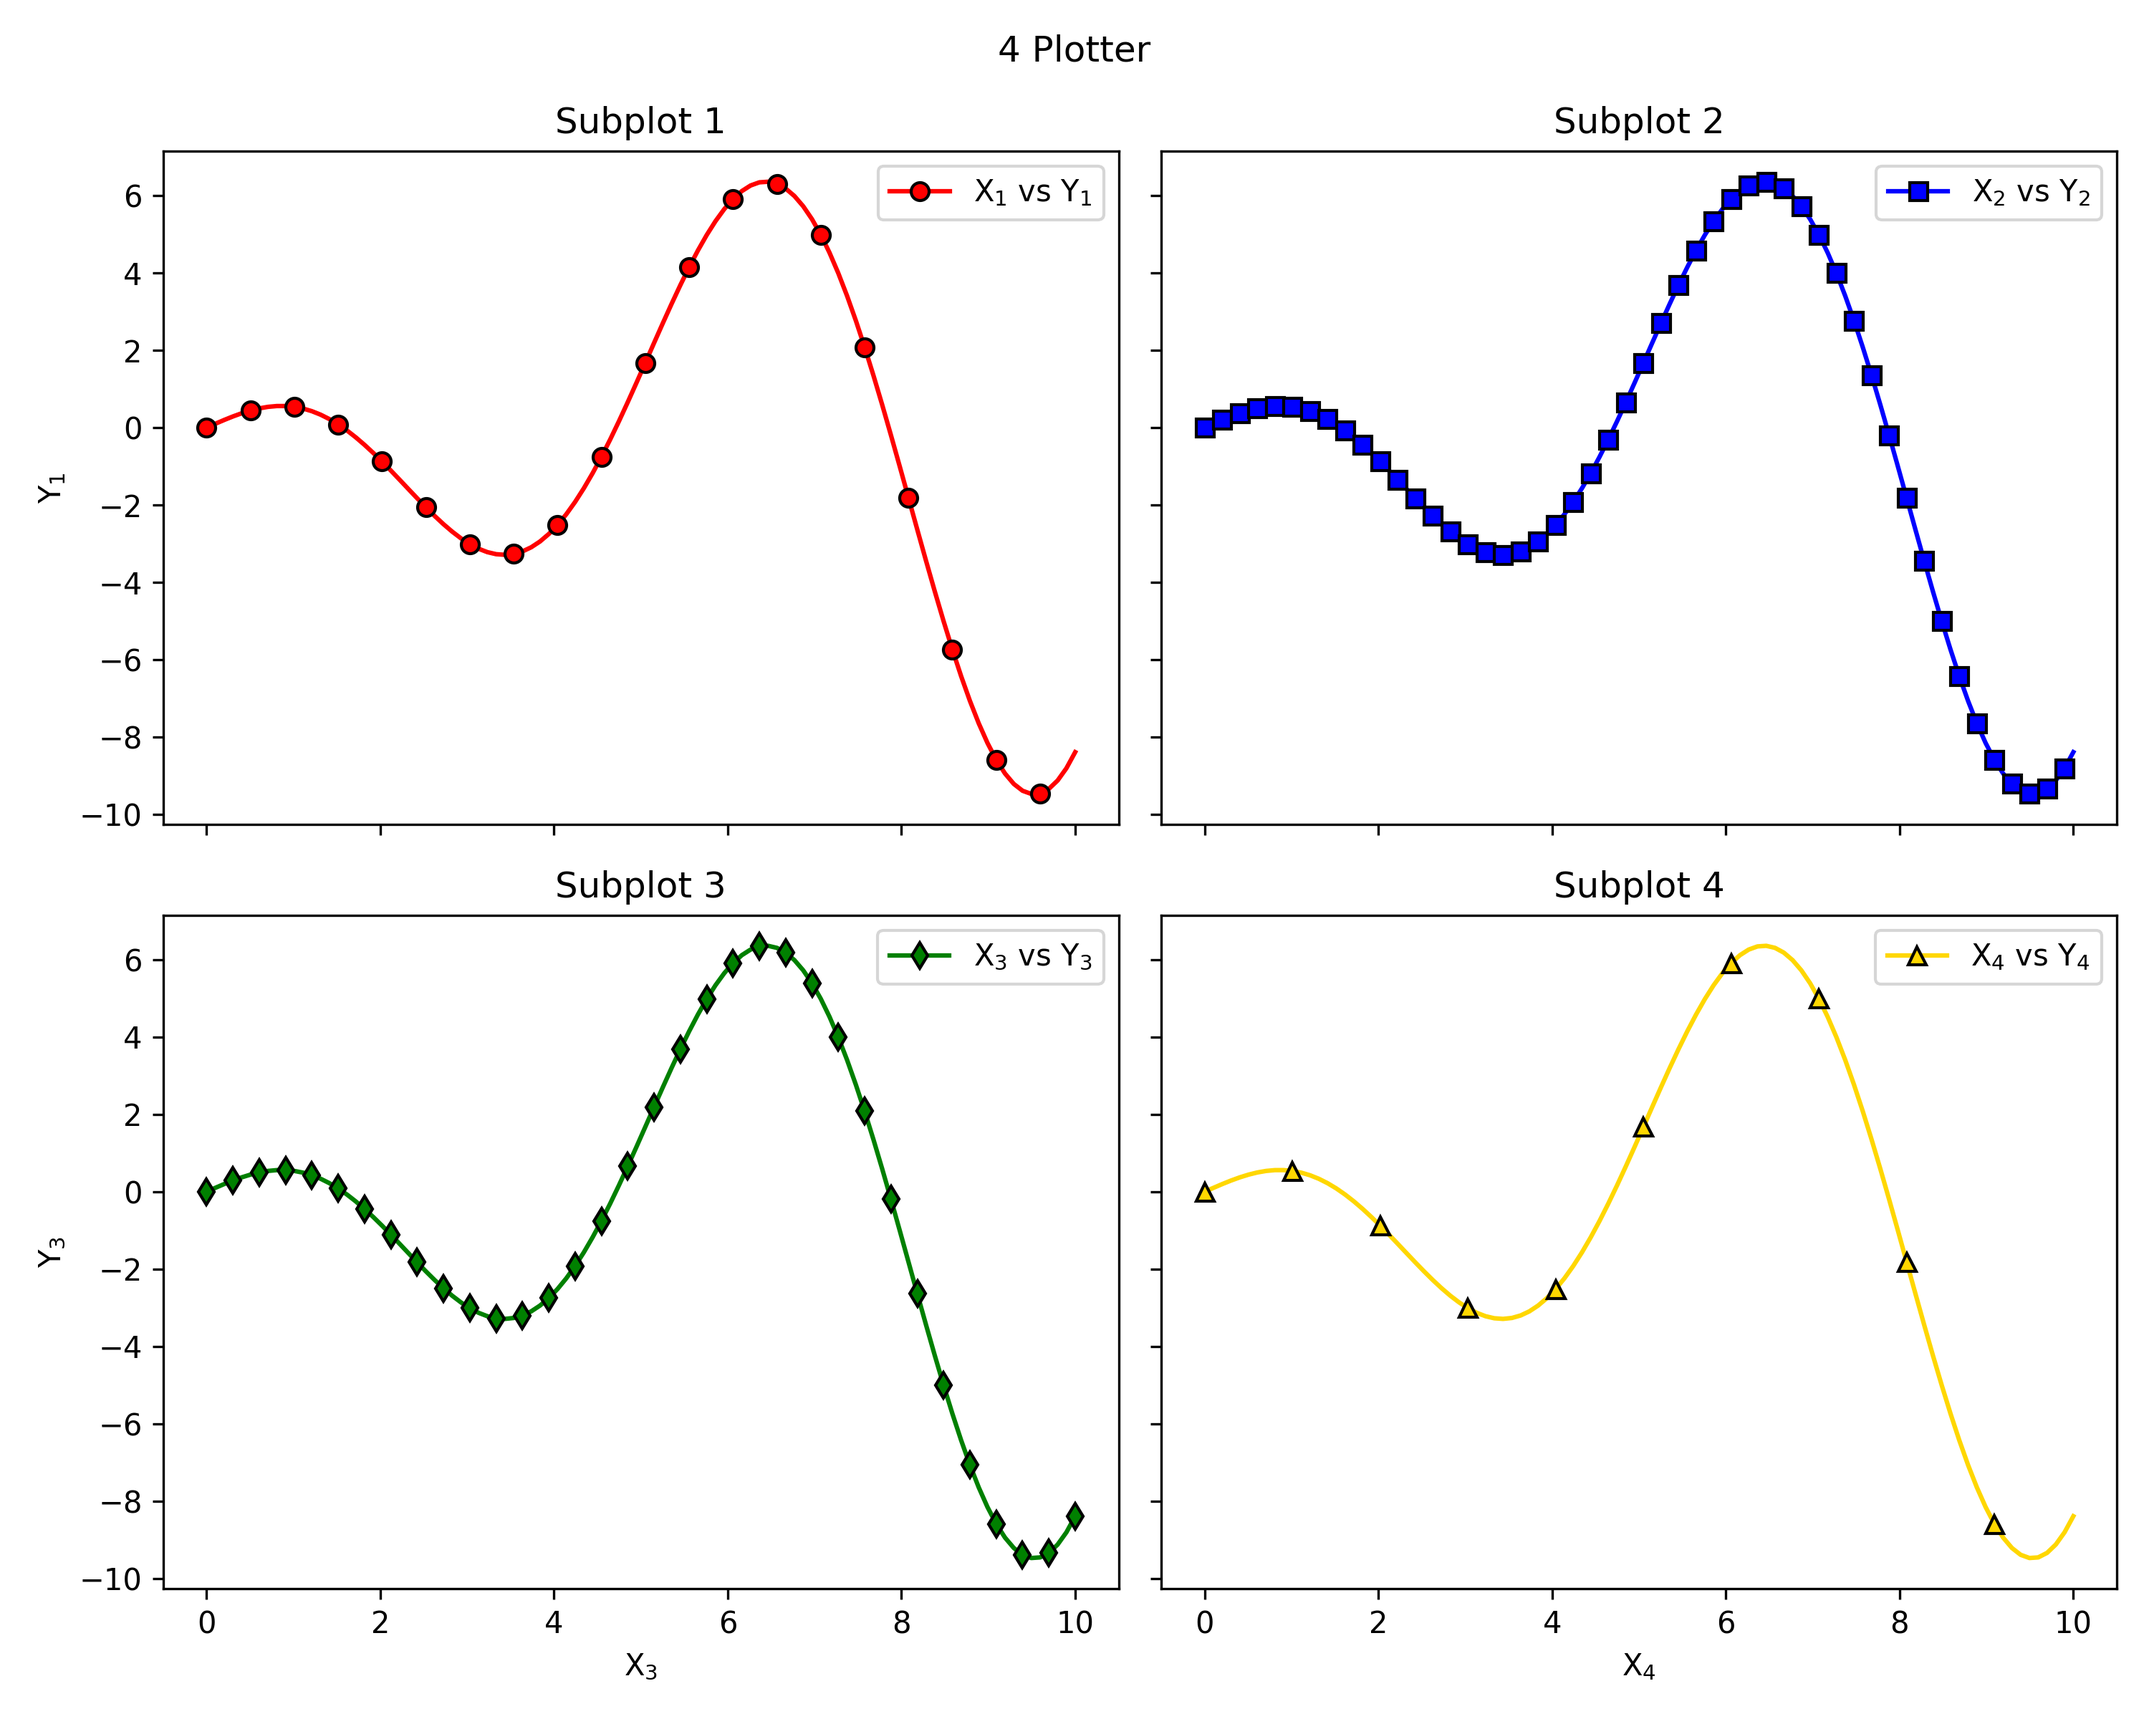
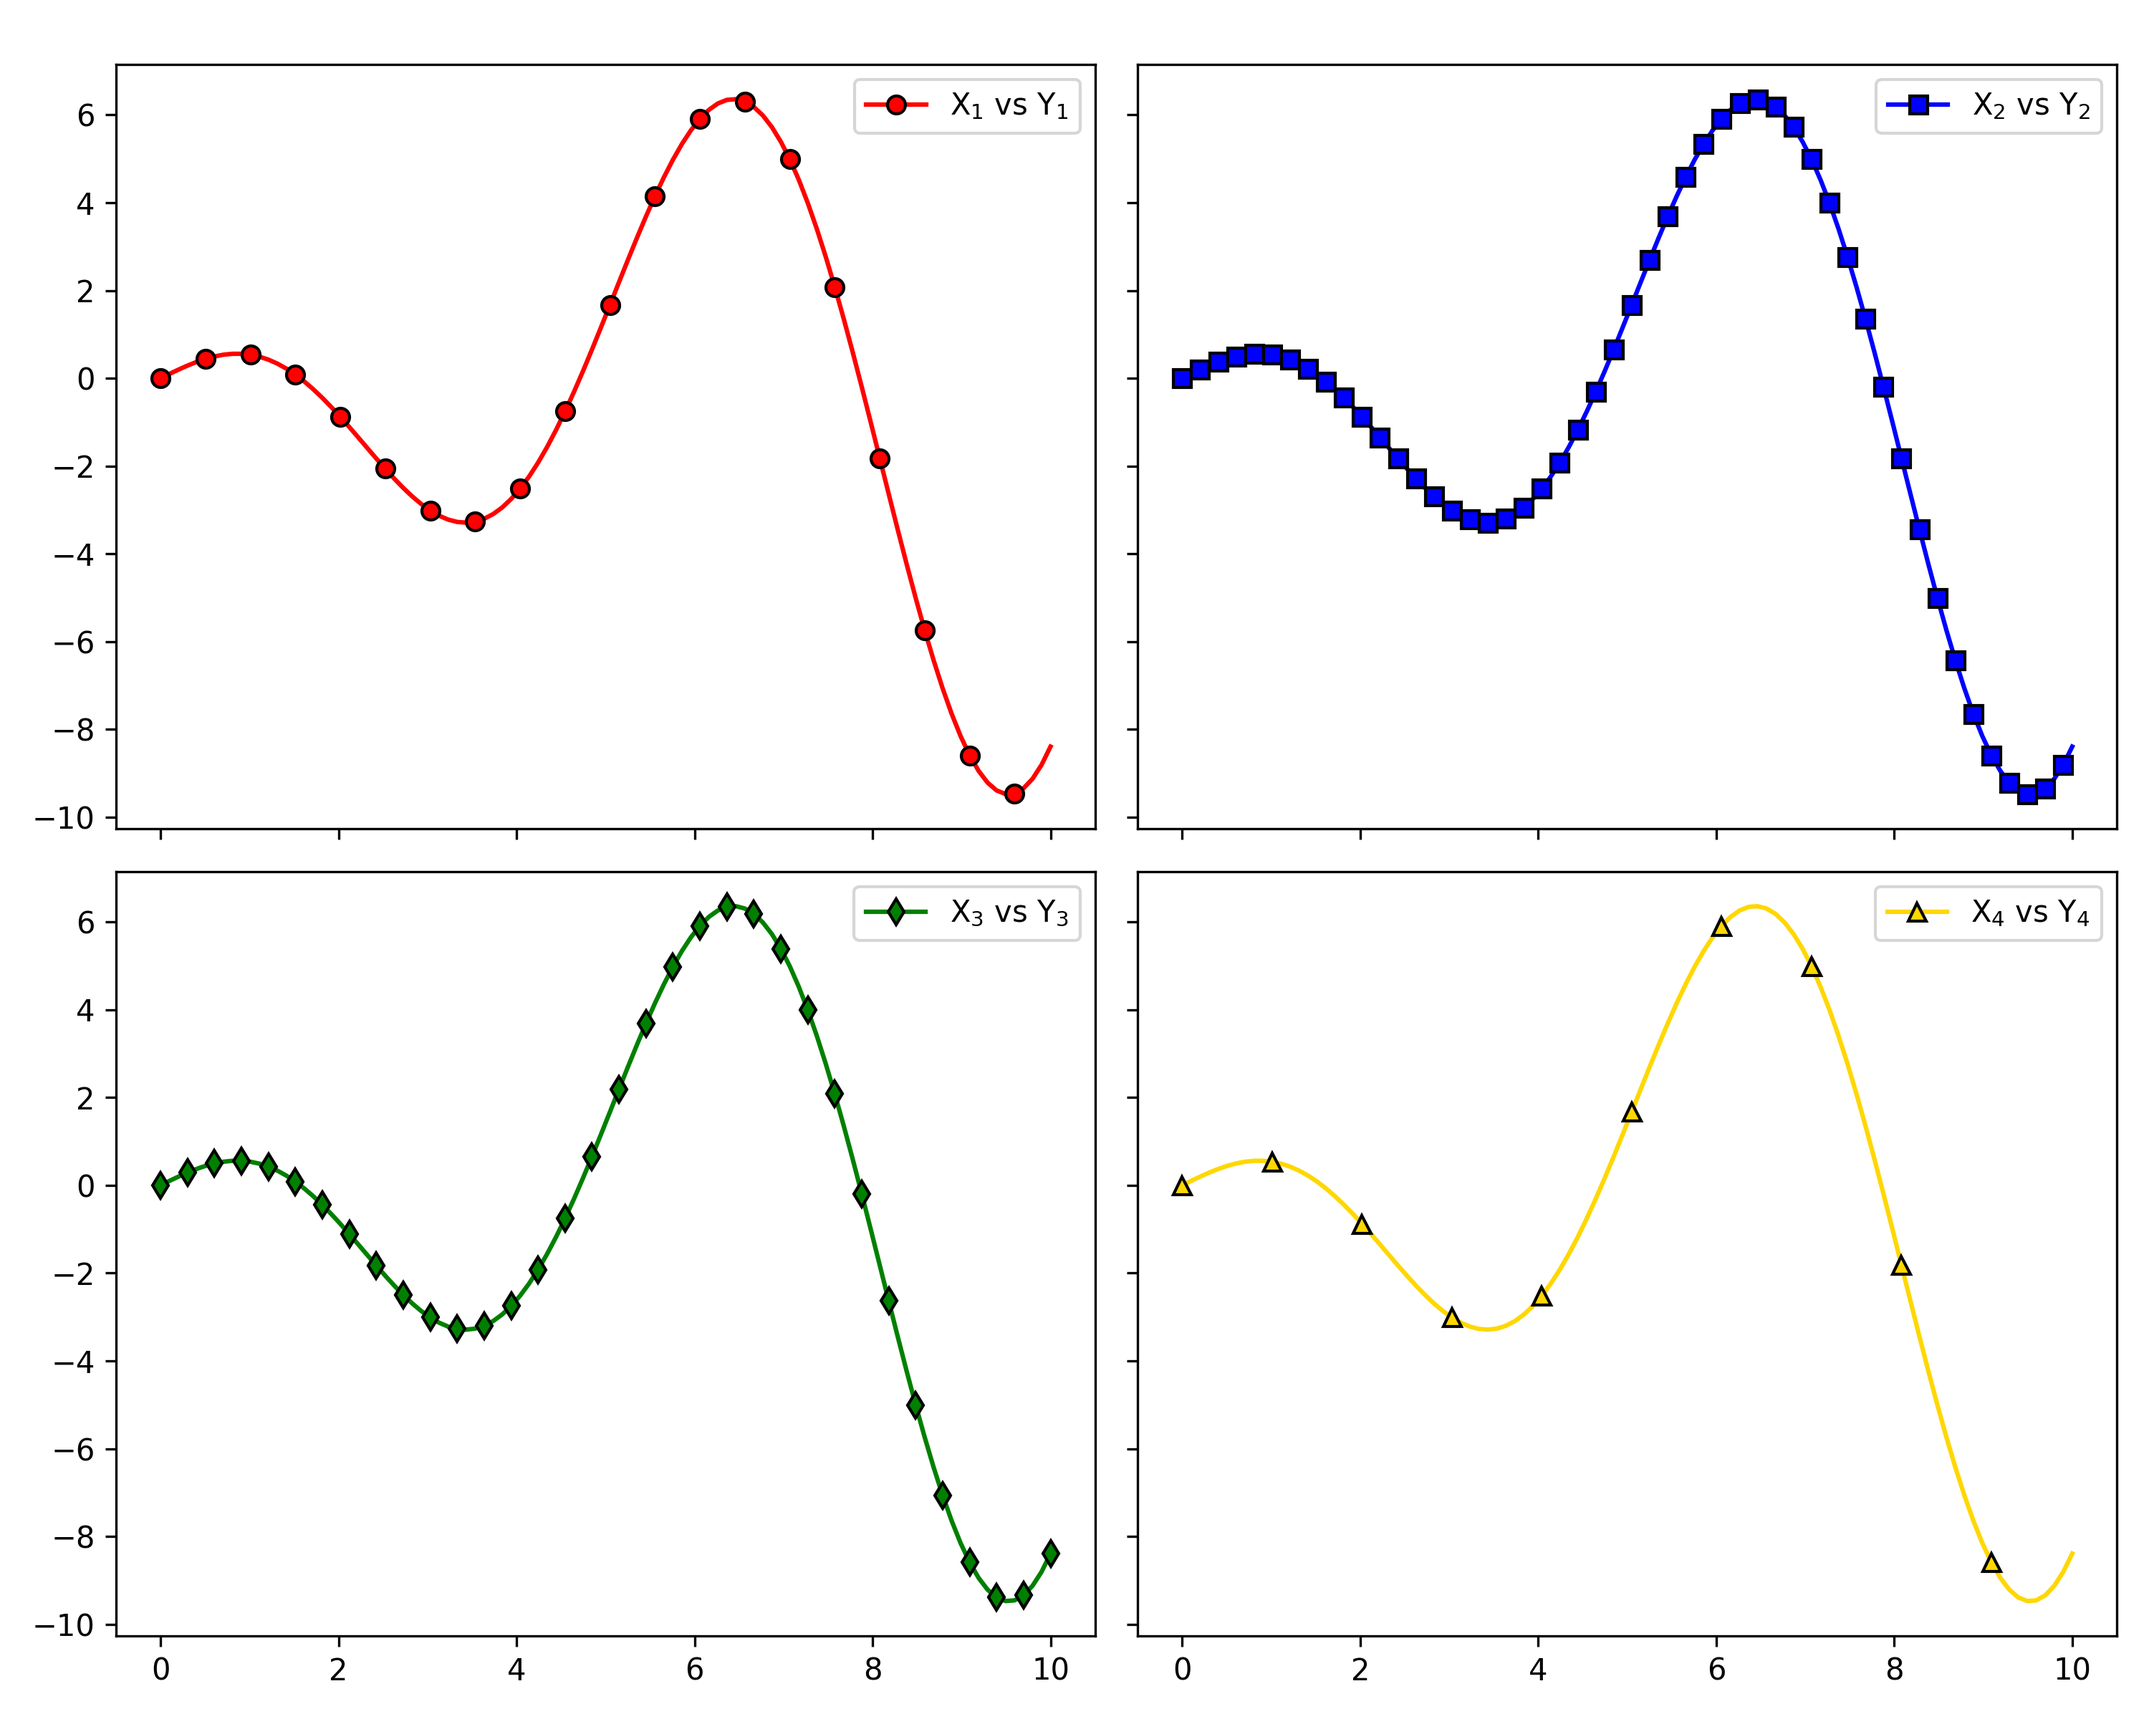
[autolabel_fix-minor-3]
1. example plot changes
2. minor type hint corrections

diff --git a/src/plotez/plotez.py b/src/plotez/plotez.py
@@ -647,30 +647,21 @@ def plot_with_dual_axes(
     if plot_title:
         ax1.set_title(plot_title)
 
+    dict2 = {
+        key: (
+            value[1] if isinstance(value, list) and len(value) > 1 else (value[0] if isinstance(value, list) else value)
+        )
+        for key, value in plot_dict.items()
+    }
+
     if use_twin_x:
         ax2 = ax1.twinx()
         if y2_data is not None:
-            dict2 = {
-                key: (
-                    value[1]
-                    if isinstance(value, list) and len(value) > 1
-                    else (value[0] if isinstance(value, list) else value)
-                )
-                for key, value in plot_dict.items()
-            }
             plot_or_scatter(axes=ax2, scatter=is_scatter)(x1_data, y2_data, label=x1y2_label, **dict2)
             ax2.set_ylabel(axis_labels[2])
 
     elif x2_data is not None:
         ax2 = ax1.twiny()
-        dict2 = {
-            key: (
-                value[1]
-                if isinstance(value, list) and len(value) > 1
-                else (value[0] if isinstance(value, list) else value)
-            )
-            for key, value in plot_dict.items()
-        }
         plot_or_scatter(axes=ax2, scatter=is_scatter)(x2_data, y1_data, label=x2y1_label, **dict2)
         ax2.set_xlabel(axis_labels[2])
 
@@ -769,15 +760,23 @@ def two_subplots(
     )
 
 
+def _has_content(value):
+    if isinstance(value, str):
+        return value != ""
+    if isinstance(value, (list, tuple)):
+        return any(v != "" for v in value)
+    return False
+
+
 def n_plotter(
-    x_data: NDArray,
-    y_data: NDArray,
+    x_data: NDArray | list[NDArray],
+    y_data: NDArray | list[NDArray],
     n_rows: int,
     n_cols: int,
     x_labels: list[str] = ["", ""],  # noqa
     y_labels: list[str] = ["", ""],  # noqa
     data_labels: list[str] = ["", ""],  # noqa
-    plot_title: str | None = None,
+    plot_title: str = "",
     subplot_title: list[str] = ["", ""],  # noqa
     auto_label: bool = False,
     is_scatter: bool = False,
@@ -838,8 +837,17 @@ def n_plotter(
         for c in range(n_cols * n_rows)
     ]
 
+    def _falsy_check(v):
+        return not any(v)
+
     if auto_label:
-        if any((x_labels, y_labels, plot_title, subplot_title)):
+        if (
+            _has_content(x_labels)
+            or _has_content(y_labels)
+            or _has_content(data_labels)
+            or _has_content(subplot_title)
+            or _has_content(plot_title)
+        ):
             warn("auto_label selected, it takes preference over user-provided labels.")
         x_labels = [rf"X$_{i + 1}$" for i in range(n_cols * n_rows)]
         y_labels = [rf"Y$_{i + 1}$" for i in range(n_cols * n_rows)]
@@ -847,15 +855,13 @@ def n_plotter(
         data_labels = ["" for _ in range(n_cols * n_rows)]
         subplot_title = [f"Subplot {i + 1}" for i in range(n_cols * n_rows)]
         plot_title = f"{n_cols * n_rows} Plotter"
-    # safeguard from `None` iterations in case if no label is provided and auto_label is false
     else:
         empty_ = ["" for _ in range(n_cols * n_rows)]
-        x_labels = x_labels if x_labels else empty_
-        y_labels = y_labels if y_labels else empty_
 
-        data_labels = data_labels if data_labels else empty_
-        subplot_title = subplot_title if subplot_title else empty_
-        plot_title = plot_title if plot_title else None
+        x_labels = empty_ if _falsy_check(x_labels) else x_labels
+        y_labels = empty_ if _falsy_check(y_labels) else y_labels
+        data_labels = empty_ if _falsy_check(data_labels) else data_labels
+        subplot_title = empty_ if _falsy_check(subplot_title) else subplot_title
 
     shared_y = sp_dict.get("sharey", False)
     shared_x1 = sp_dict.get("sharex", False)
@@ -873,6 +879,8 @@ def n_plotter(
             f"The number of labels provided {which_one}_labels ({sm}) is less than the number of data series ({lg}). "
             f"Using None as missing {which_one}_label for the remaining data series."
         )
+
+    print(f"{main_dict=}")
 
     for index, ax, x_, y_, sp_ in zip(range(n_cols * n_rows), axs, x_labels, y_labels, subplot_title):
         label = f"{x_labels[index]} vs {y_labels[index]}" if data_labels is None else data_labels[index]

diff --git a/src/plotez/backend/_wrappers.py b/src/plotez/backend/_wrappers.py
@@ -1,6 +1,5 @@
 """Created on Mar 07 20:32:48 2026."""
 
-from collections.abc import Sequence
 from typing import Literal
 
 from .utilities import ErrorBandConfig, ErrorPlotConfig, HistogramConfig, LinePlotConfig, ScatterPlotConfig
@@ -20,15 +19,15 @@ __all__ = [
 
 
 def line_plot_configuration(
-    c: str | Sequence[str] | None = None,
-    lw: float | Sequence[float] | None = None,
-    ls: str | Sequence[str] | None = None,
-    alpha: float | Sequence[float] | None = None,
-    marker: str | Sequence[str] | None = None,
-    ms: float | Sequence[float] | None = None,
-    mfc: str | Sequence[str] | None = None,
-    mec: str | Sequence[str] | None = None,
-    mew: float | Sequence[float] | None = None,
+    c: str | list[str] | None = None,
+    lw: float | list[float] | None = None,
+    ls: str | list[str] | None = None,
+    alpha: float | list[float] | None = None,
+    marker: str | list[str] | None = None,
+    ms: float | list[float] | None = None,
+    mfc: str | list[str] | None = None,
+    mec: str | list[str] | None = None,
+    mew: float | list[float] | None = None,
     **kwargs,
 ):
     """
@@ -51,9 +50,9 @@ def line_plot_configuration(
     mfc :
         Marker face color.
     mec :
-        Marker edge color.
+        Marker-edge color.
     mew :
-        Marker edge width.
+        Marker-edge width.
     **kwargs :
         Additional keyword arguments passed to the underlying plot function.
 
@@ -217,21 +216,21 @@ def scatter_plot_configuration(
 
     Parameters
     ----------
-    c : color or array-like, optional
+    c :
         Marker color(s).
-    s : float or array-like, optional
+    s :
         Marker size(s) in points squared.
-    alpha : float, optional
+    alpha :
         Transparency level (0.0 to 1.0).
-    marker : str, optional
+    marker :
         Marker style (e.g., 'o', 's', '^').
-    cmap : str or Colormap, optional
+    cmap :
         Colormap name or object.
-    ec : color or array-like, optional
+    ec :
         Edge color(s).
-    fc : color or array-like, optional
+    fc :
         Face color(s).
-    **kwargs : dict, optional
+    **kwargs :
         Additional keyword arguments passed to the underlying scatter function.
 
     Returns

diff --git a/examples/ex_images/README_E4_multi_panel_grid.py b/examples/ex_images/README_E4_multi_panel_grid.py
@@ -8,8 +8,19 @@ from plotez import n_plotter
 x_data = [np.linspace(0, 10, 100) for _ in range(4)]
 y_data = [np.sin(x_data[0]), np.cos(x_data[1]), np.tan(x_data[2] / 5), x_data[3] ** 2 / 100]
 
-n_plotter(x_data, y_data, n_rows=2, n_cols=2, auto_label=True)
+n_plotter(
+    x_data,
+    y_data,
+    n_rows=2,
+    n_cols=2,
+    data_labels=[
+        "X1 vs Y1",
+        "X2 vs Y2",
+        "X3 vs Y3",
+        "X4 vs Y4",
+    ],
+)
 
 # plt.show()
-plt.savefig("./ex_images/README_E4_multi_panel_grid.png", dpi=300)
+plt.savefig("README_E4_multi_panel_grid.png", dpi=300)
 plt.close()

diff --git a/examples/rtd_images/RTD_E3_scatter_plot.py b/examples/rtd_images/RTD_E3_scatter_plot.py
@@ -5,12 +5,15 @@ import numpy as np
 
 from plotez import plot_xy
 
-x = np.random.randn(100)
-y = 2 * x + 1 + np.random.randn(100) * 0.5
+# set a default generator for reproducibility
+rng = np.random.default_rng(1234)
+
+x = rng.random(100)
+y = 2 * x + 1 + rng.random(x.shape) * 0.2
 
 # use of `is_scatter` parameter to generate the scatter plot
 plot_xy(x, y, is_scatter=True, x_label="X", y_label="Y", plot_title="Noisy Relationship")
 
 # plt.show()
-plt.savefig("./rtd_images/RTD_E3_scatter_plot.png", dpi=300)
+plt.savefig("RTD_E3_scatter_plot.png", dpi=300)
 plt.close()

diff --git a/examples/ex_images/README_E2_scientific_errorbars.py b/examples/ex_images/README_E2_scientific_errorbars.py
@@ -13,8 +13,8 @@ y = np.sin(x)
 y_err = 0.2 * rng.random(size=y.shape)
 
 ep = ErrorPlotConfig(color="darkblue", marker="o", capsize=5, ecolor="red", markerfacecolor="lime")
-plot_errorbar(x, y, y_err=y_err, errorbar_config=ep, auto_label=True)
+plot_errorbar(x, y, data_label="X vs Y\n(with errors)", y_err=y_err, errorbar_config=ep, auto_label=True)
 
 # plt.show()
-plt.savefig("./ex_images/README_E2_scientific_errorbars.png", dpi=300)
+plt.savefig("README_E2_scientific_errorbars.png", dpi=300)
 plt.close()

diff --git a/examples/ex_images/README_E1_simple.py b/examples/ex_images/README_E1_simple.py
@@ -1,4 +1,4 @@
-"""Created on Mar 08 02:40:12 2026"""
+"""Created on Mar 08 02:08:53 2026"""
 
 import matplotlib.pyplot as plt
 import numpy as np
@@ -7,8 +7,8 @@ from plotez import plot_xy
 
 x = np.linspace(0, 10, 100)
 y = np.sin(x)
-plot_xy(x, y, auto_label=True)
+plot_xy(x, y, data_label="X vs Y", auto_label=True)
 
 # plt.show()
-plt.savefig("./rtd_images/RTD_E1_simple.png", dpi=300)
+plt.savefig("README_E1_simple.png", dpi=300)
 plt.close()

diff --git a/examples/rtd_images/RTD_E1_simple.py b/examples/rtd_images/RTD_E1_simple.py
@@ -1,4 +1,4 @@
-"""Created on Mar 08 02:08:53 2026"""
+"""Created on Mar 08 02:40:12 2026"""
 
 import matplotlib.pyplot as plt
 import numpy as np
@@ -7,8 +7,8 @@ from plotez import plot_xy
 
 x = np.linspace(0, 10, 100)
 y = np.sin(x)
-plot_xy(x, y, auto_label=True)
+plot_xy(x, y, data_label="X vs Y", auto_label=True)
 
 # plt.show()
-plt.savefig("./ex_images/README_E1_simple.png", dpi=300)
+plt.savefig("RTD_E1_simple.png", dpi=300)
 plt.close()

diff --git a/examples/rtd_images/RTD_E10_shared_axes.py b/examples/rtd_images/RTD_E10_shared_axes.py
@@ -25,9 +25,9 @@ n_plotter(
     n_cols=2,
     plot_config=line_plot_cfg,
     figure_kwargs=fig_kwargs,
-    auto_label=True,
+    data_labels=["X$_1$ vs Y$_1$", "X$_2$ vs Y$_2$", "X$_3$ vs Y$_3$", "X$_4$ vs Y$_4$"],
 )
 
 # plt.show()
-plt.savefig("./rtd_images/RTD_E10_shared_axes.png", dpi=300)
+plt.savefig("RTD_E10_shared_axes.png", dpi=300)
 plt.close()

diff --git a/examples/ex_images/README_E5-1_error_band.py b/examples/ex_images/README_E5-1_error_band.py
@@ -20,5 +20,5 @@ plot_config = LinePlotConfig(color="gold", linewidth=2, linestyle="--", marker="
 plot_errorband(x, y, y_lower, y_upper, data_label="Measurement", band_config=band_config, line_config=plot_config)
 
 # plt.show()
-plt.savefig("./ex_images/README_E5-1_error_band.png", dpi=300)
+plt.savefig("README_E5-1_error_band.png", dpi=300)
 plt.close()

diff --git a/examples/ex_images/README_E5-2_error_band.py b/examples/ex_images/README_E5-2_error_band.py
@@ -20,5 +20,5 @@ plot_config = lpc(c="gold", lw=2, ls="--", marker="o", ms=5, mec="k")
 plot_errorband(x, y, y_lower, y_upper, data_label="Measurement", band_config=band_config, line_config=plot_config)
 
 # plt.show()
-plt.savefig("./ex_images/README_E5-2_error_band.png", dpi=300)
+plt.savefig("README_E5-2_error_band.png", dpi=300)
 plt.close()

diff --git a/examples/rtd_images/RTD_E6_asym_errors.py b/examples/rtd_images/RTD_E6_asym_errors.py
@@ -13,5 +13,5 @@ y_err = np.array([0.1 * y, 0.35 * y])  # Lower (10% of value)  # Upper  (35% of 
 plot_errorbar(x, y, y_err=y_err, auto_label=True)
 
 # plt.show()
-plt.savefig("./rtd_images/RTD_E6_asym_errors.png", dpi=300)
+plt.savefig("RTD_E6_asym_errors.png", dpi=300)
 plt.close()

diff --git a/examples/rtd_images/RTD_E12_matplotlib_integration.py b/examples/rtd_images/RTD_E12_matplotlib_integration.py
@@ -19,5 +19,5 @@ y_err = 0.1
 plot_errorbar(x2, y2, y_err=y_err, axis=ax2, x_label="X", data_label="cos(x)")
 
 # plt.show()
-plt.savefig("./rtd_images/RTD_E12_matplotlib_integration.png", dpi=300)
+plt.savefig("RTD_E12_matplotlib_integration.png", dpi=300)
 plt.close()
